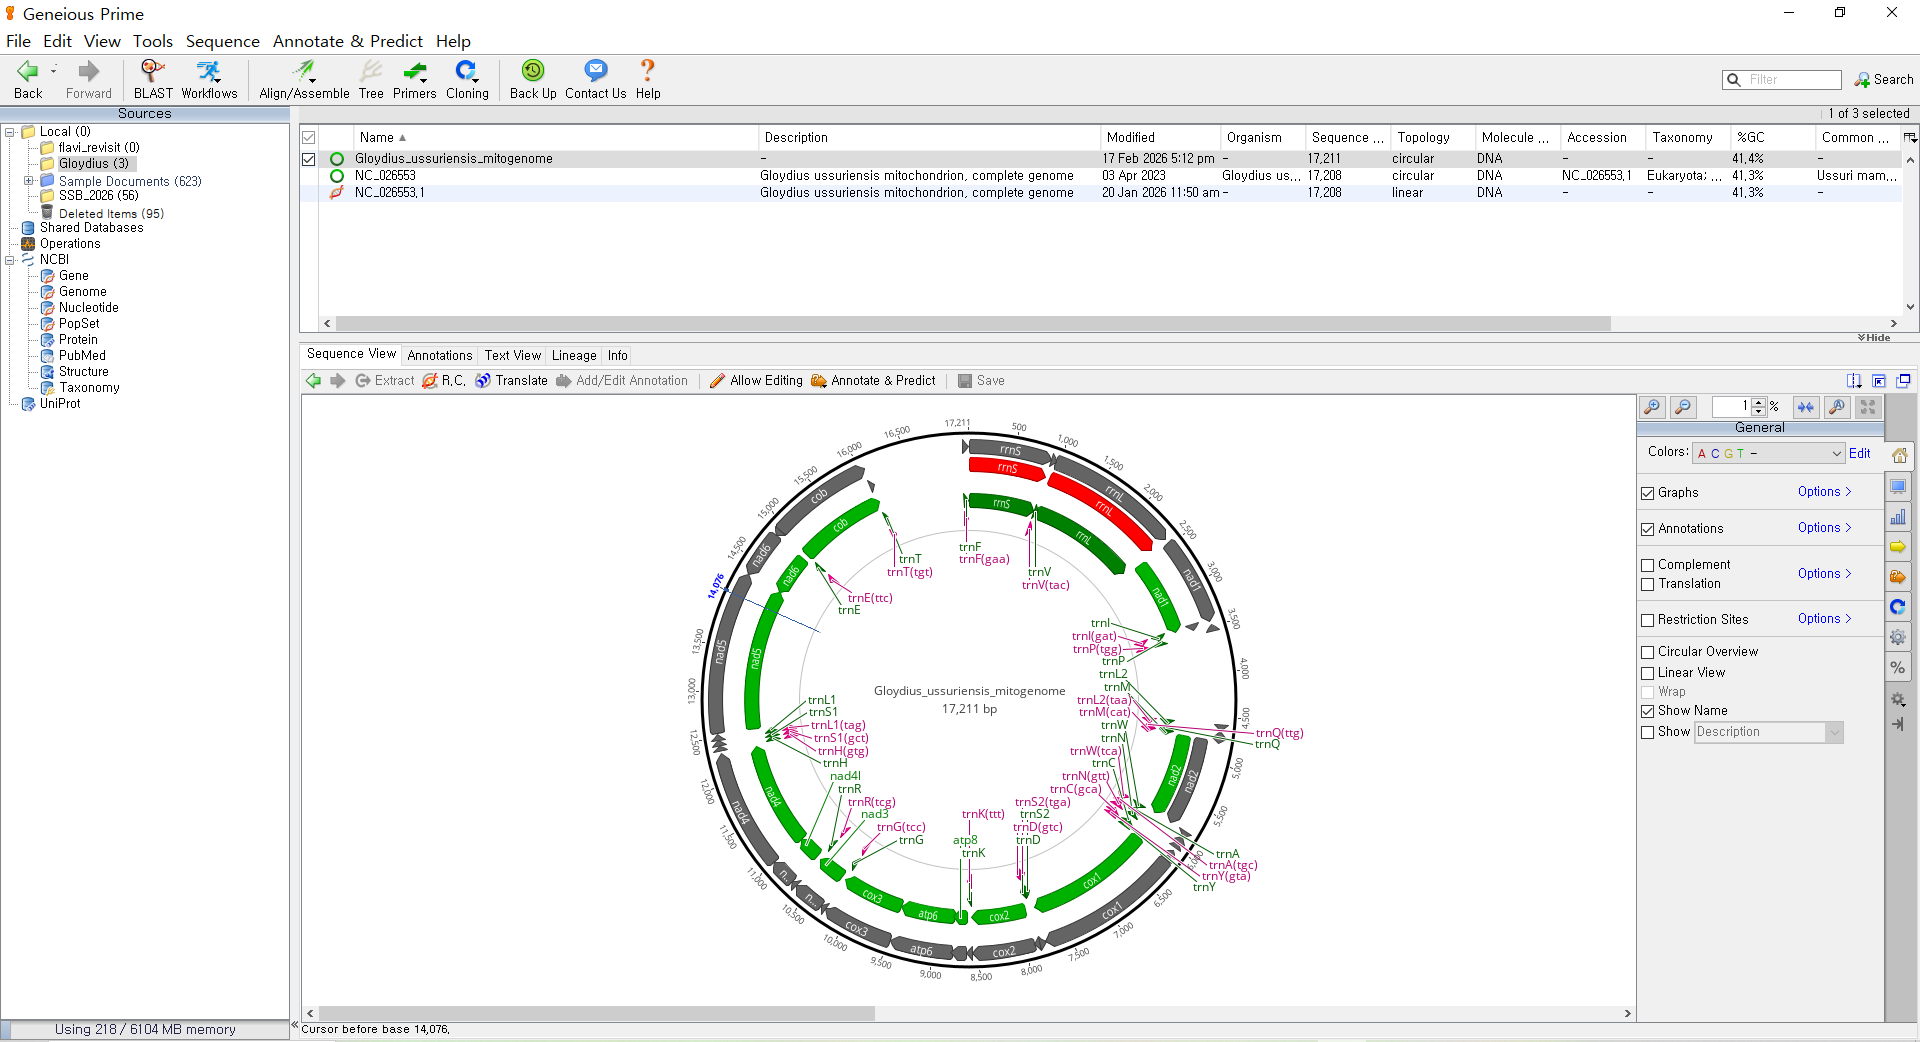
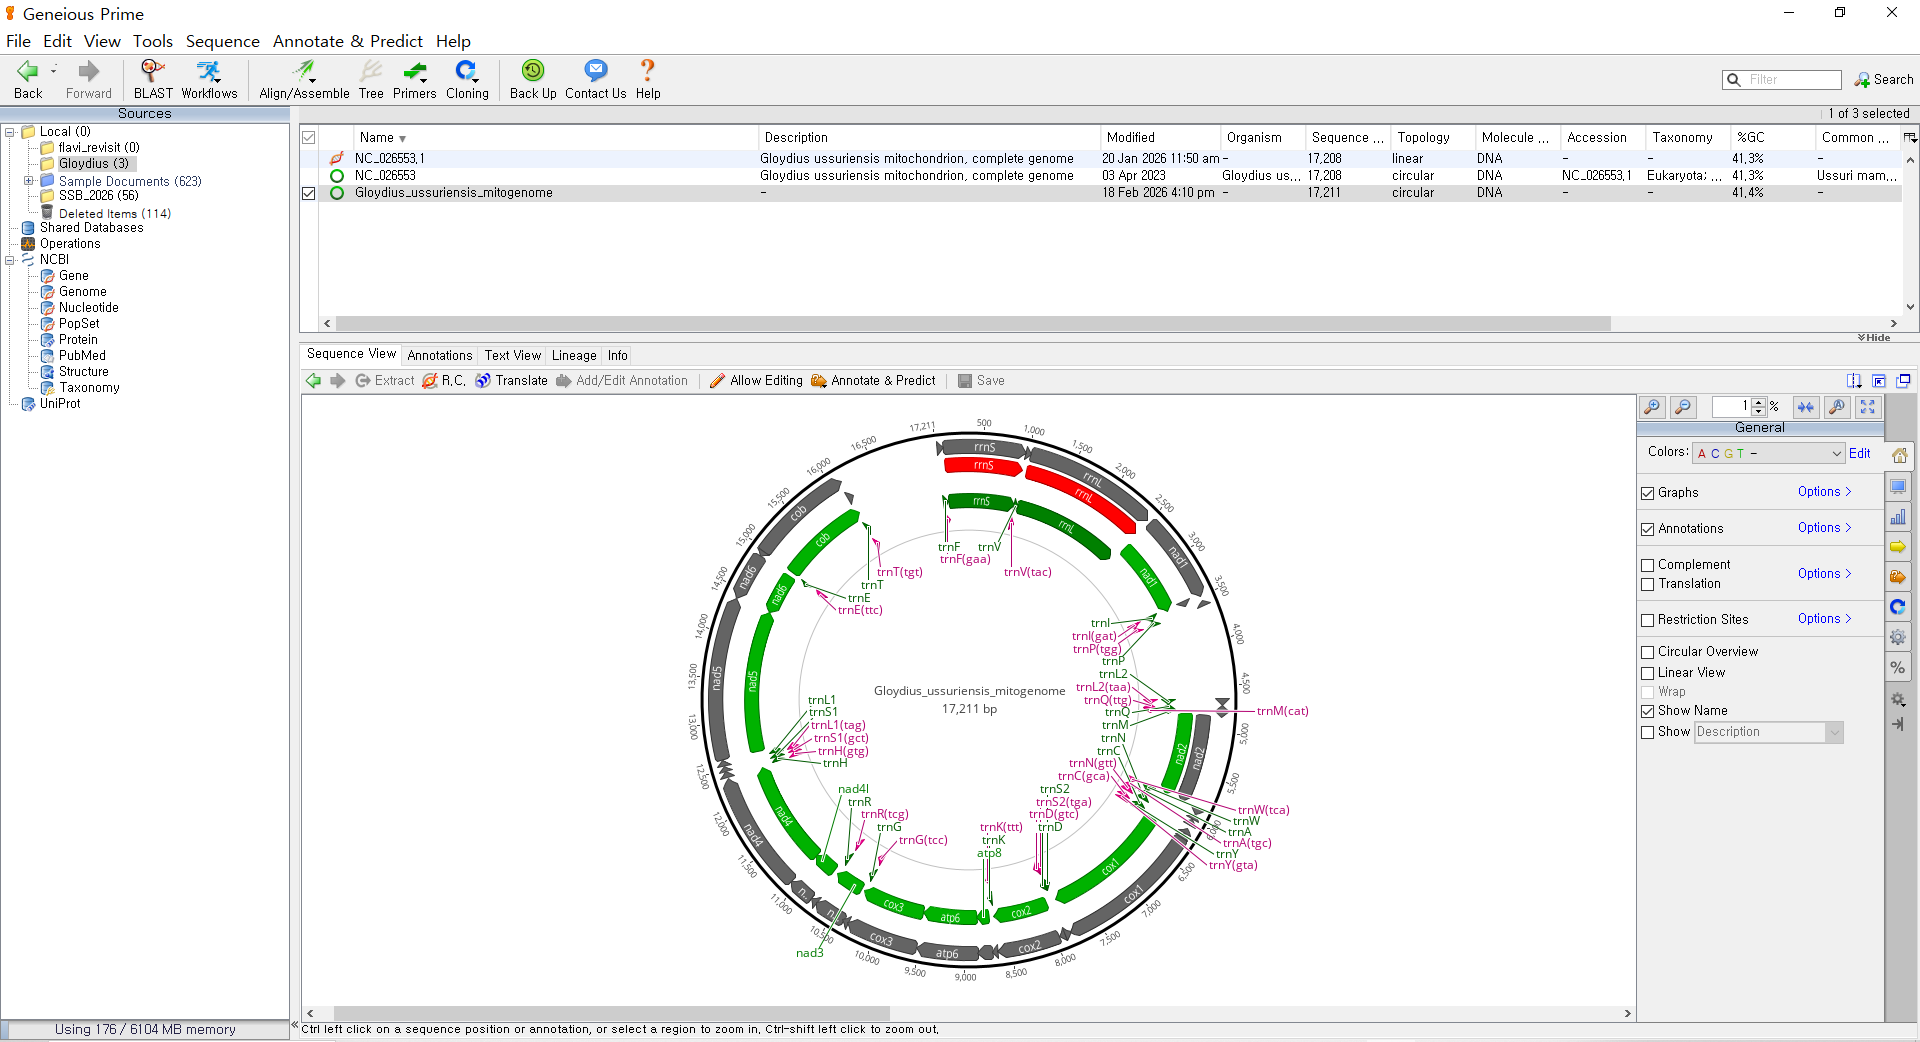
commit

diff --git a/doc.md b/doc.md
@@ -1183,7 +1183,7 @@ cp ussuri_mt_rotated.fasta final/
 cp *.gff final/
 
 # change the gff file name
-mv 'Galaxy23-[MITOS2 on dataset 21_ GFF].gff' annotation_rotated_final.gff
+mv 'Galaxy28-[MITOS2 on dataset 26_ GFF].gff' annotation_rotated_final.gff
 
 # cd into final folder and change file names and confirm gene content again
 cd final/
@@ -1197,7 +1197,7 @@ grep -i -E "gene_trnF|Name=trnF|trnF" *.gff
 ```
 ![alt text](etc/final_check_mitos2_gff2.PNG)
 
-The trnF is shown to span 17,148 bp - 17,211 bp. Since this mitogenome is 17,211 long, the position shown here actually means that the trnF is at the start of the circularized sequence. Check the sequence stats in the local device using seqkit (install it if you need to).
+The trnF is now shown to span 1 bp - 64 bp.This is exactly what we expect from a correctly rotated sequence. Check the sequence stats in the local device using seqkit (install it if you need to).
 
 ```txt
 seqkit stats ussuri_mt_rotated.fasta
